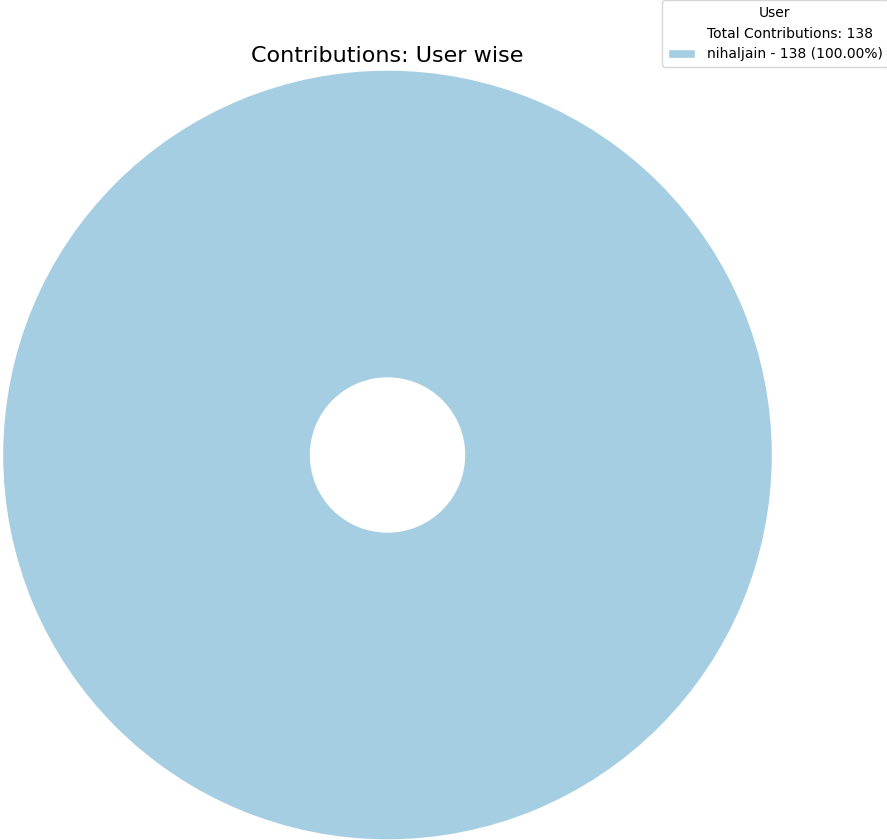
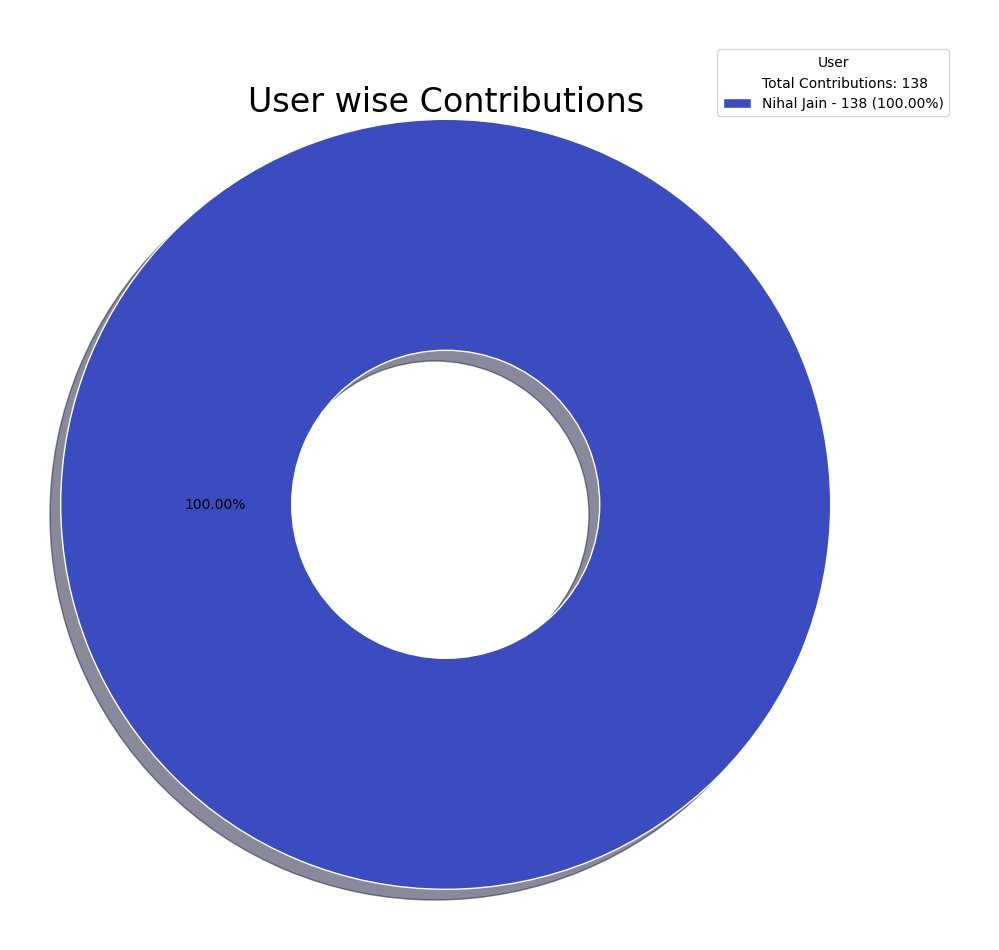
Run workflow and update to latest reports

diff --git a/output/github_contributions_report.md b/output/github_contributions_report.md
@@ -1,8 +1,8 @@
 # OpenSource Contributions Report
 
-Report auto-generated on: 2025-03-20 01:39:40
+Report auto-generated on: 2025-03-20 13:14:41
 
-## Summary
+## Overall Summary
 
 | Metric | Value |
 |--------|-------|
@@ -13,38 +13,39 @@ Report auto-generated on: 2025-03-20 01:39:40
 | Number of pull requests (Open) | 10 |
 
 <div style="display: flex; justify-content: space-around;">
-  <img src="project_wise_contribution.png" alt="Contributions: Project Wise" style="width:40%;">
-  <img src="user_wise_contribution.png" alt="Contributions: User Wise" style="width:40%;">
+  <img src="project_wise_contribution.png" alt="Project wise Contributions" style="width:45%;">
+  <img src="user_wise_contribution.png" alt="User wise Contributions" style="width:45%;">
 </div>
 
 ## Summary of Contributions by each project
 
-| Project Name | Commits | Pull Requests (Open) | Overall Contribution |
-|--------------|---------|----------------------|----------------------|
-| Apache HBase | 101 | 8 | 109 |
-| Apache Phoenix | 21 | 2 | 23 |
-| Apache Pinot | 3 | 0 | 3 |
-| Apache Zookeeper | 2 | 0 | 2 |
-| Apache Hadoop | 1 | 0 | 1 |
+| Project Key | Repositories | Users | Commits | Pull Requests (Open) | Overall Contribution |
+|--------------|--------------|-------|---------|----------------------|----------------------|
+| Apache HBase | <img src='https://avatars.githubusercontent.com/u/47359?v=4' width='12' height='12'> [apache/hbase](https://github.com/apache/hbase)<br><img src='https://avatars.githubusercontent.com/u/47359?v=4' width='12' height='12'> [apache/hbase-connectors](https://github.com/apache/hbase-connectors)<br><img src='https://avatars.githubusercontent.com/u/47359?v=4' width='12' height='12'> [apache/hbase-operator-tools](https://github.com/apache/hbase-operator-tools)<br><img src='https://avatars.githubusercontent.com/u/47359?v=4' width='12' height='12'> [apache/hbase-thirdparty](https://github.com/apache/hbase-thirdparty) | <img src='https://avatars.githubusercontent.com/u/3429351?v=4' width='12' height='12'> [Nihal Jain](https://github.com/NihalJain) | 101 | 8 | 109 |
+| Apache Phoenix | <img src='https://avatars.githubusercontent.com/u/47359?v=4' width='12' height='12'> [apache/phoenix](https://github.com/apache/phoenix)<br><img src='https://avatars.githubusercontent.com/u/47359?v=4' width='12' height='12'> [apache/phoenix-omid](https://github.com/apache/phoenix-omid)<br><img src='https://avatars.githubusercontent.com/u/47359?v=4' width='12' height='12'> [apache/phoenix-queryserver](https://github.com/apache/phoenix-queryserver)<br><img src='https://avatars.githubusercontent.com/u/47359?v=4' width='12' height='12'> [apache/phoenix-thirdparty](https://github.com/apache/phoenix-thirdparty) | <img src='https://avatars.githubusercontent.com/u/3429351?v=4' width='12' height='12'> [Nihal Jain](https://github.com/NihalJain) | 21 | 2 | 23 |
+| Apache Pinot | <img src='https://avatars.githubusercontent.com/u/47359?v=4' width='12' height='12'> [apache/pinot](https://github.com/apache/pinot)<br><img src='https://avatars.githubusercontent.com/u/62676312?v=4' width='12' height='12'> [pinot-contrib/pinot-docs](https://github.com/pinot-contrib/pinot-docs) | <img src='https://avatars.githubusercontent.com/u/3429351?v=4' width='12' height='12'> [Nihal Jain](https://github.com/NihalJain) | 3 | 0 | 3 |
+| Apache Zookeeper | <img src='https://avatars.githubusercontent.com/u/47359?v=4' width='12' height='12'> [apache/zookeeper](https://github.com/apache/zookeeper) | <img src='https://avatars.githubusercontent.com/u/3429351?v=4' width='12' height='12'> [Nihal Jain](https://github.com/NihalJain) | 2 | 0 | 2 |
+| Apache Hadoop | <img src='https://avatars.githubusercontent.com/u/47359?v=4' width='12' height='12'> [apache/hadoop](https://github.com/apache/hadoop) | <img src='https://avatars.githubusercontent.com/u/3429351?v=4' width='12' height='12'> [Nihal Jain](https://github.com/NihalJain) | 1 | 0 | 1 |
+
 ## Summary of Contributions by each user
 
-| User | Commits | Pull Requests (Open) | Overall Contribution |
-|------|---------|----------------------|----------------------|
-| nihaljain | 128 | 10 | 138 |
+| User | Repositories | Commits | Pull Requests (Open) | Overall Contribution |
+|------|--------------|---------|----------------------|----------------------|
+| <img src='https://avatars.githubusercontent.com/u/3429351?v=4' width='12' height='12'> [Nihal Jain](https://github.com/NihalJain) | <img src='https://avatars.githubusercontent.com/u/47359?v=4' width='12' height='12'> [apache/hadoop](https://github.com/apache/hadoop)<br><img src='https://avatars.githubusercontent.com/u/47359?v=4' width='12' height='12'> [apache/hbase](https://github.com/apache/hbase)<br><img src='https://avatars.githubusercontent.com/u/47359?v=4' width='12' height='12'> [apache/hbase-connectors](https://github.com/apache/hbase-connectors)<br><img src='https://avatars.githubusercontent.com/u/47359?v=4' width='12' height='12'> [apache/hbase-operator-tools](https://github.com/apache/hbase-operator-tools)<br><img src='https://avatars.githubusercontent.com/u/47359?v=4' width='12' height='12'> [apache/hbase-thirdparty](https://github.com/apache/hbase-thirdparty)<br><img src='https://avatars.githubusercontent.com/u/47359?v=4' width='12' height='12'> [apache/phoenix](https://github.com/apache/phoenix)<br><img src='https://avatars.githubusercontent.com/u/47359?v=4' width='12' height='12'> [apache/phoenix-omid](https://github.com/apache/phoenix-omid)<br><img src='https://avatars.githubusercontent.com/u/47359?v=4' width='12' height='12'> [apache/phoenix-queryserver](https://github.com/apache/phoenix-queryserver)<br><img src='https://avatars.githubusercontent.com/u/47359?v=4' width='12' height='12'> [apache/phoenix-thirdparty](https://github.com/apache/phoenix-thirdparty)<br><img src='https://avatars.githubusercontent.com/u/47359?v=4' width='12' height='12'> [apache/pinot](https://github.com/apache/pinot)<br><img src='https://avatars.githubusercontent.com/u/47359?v=4' width='12' height='12'> [apache/zookeeper](https://github.com/apache/zookeeper)<br><img src='https://avatars.githubusercontent.com/u/62676312?v=4' width='12' height='12'> [pinot-contrib/pinot-docs](https://github.com/pinot-contrib/pinot-docs) | 128 | 10 | 138 |
 
 ## Detailed Contributions
 
-| Project Name | Repository | User | Commits | Pull Requests (Open) | Overall Contribution |
+| Project Key | Repository | User | Commits | Pull Requests (Open) | Overall Contribution |
 |--------------|------------|------|---------|----------------------|----------------------|
-| Apache HBase | apache/hbase | nihaljain | 76 | 5 | 81 |
-| Apache HBase | apache/hbase-operator-tools | nihaljain | 13 | 0 | 13 |
-| Apache Phoenix | apache/phoenix-omid | nihaljain | 10 | 0 | 10 |
-| Apache HBase | apache/hbase-connectors | nihaljain | 7 | 1 | 8 |
-| Apache HBase | apache/hbase-thirdparty | nihaljain | 5 | 2 | 7 |
-| Apache Phoenix | apache/phoenix | nihaljain | 5 | 2 | 7 |
-| Apache Phoenix | apache/phoenix-queryserver | nihaljain | 5 | 0 | 5 |
-| Apache Pinot | pinot-contrib/pinot-docs | nihaljain | 2 | 0 | 2 |
-| Apache Zookeeper | apache/zookeeper | nihaljain | 2 | 0 | 2 |
-| Apache Hadoop | apache/hadoop | nihaljain | 1 | 0 | 1 |
-| Apache Phoenix | apache/phoenix-thirdparty | nihaljain | 1 | 0 | 1 |
-| Apache Pinot | apache/pinot | nihaljain | 1 | 0 | 1 |
+| Apache HBase | <img src='https://avatars.githubusercontent.com/u/47359?v=4' width='12' height='12'> [apache/hbase](https://github.com/apache/hbase) | <img src='https://avatars.githubusercontent.com/u/3429351?v=4' width='12' height='12'> [Nihal Jain](https://github.com/NihalJain) | 76 | 5 | 81 |
+| Apache HBase | <img src='https://avatars.githubusercontent.com/u/47359?v=4' width='12' height='12'> [apache/hbase-connectors](https://github.com/apache/hbase-connectors) | <img src='https://avatars.githubusercontent.com/u/3429351?v=4' width='12' height='12'> [Nihal Jain](https://github.com/NihalJain) | 7 | 1 | 8 |
+| Apache HBase | <img src='https://avatars.githubusercontent.com/u/47359?v=4' width='12' height='12'> [apache/hbase-thirdparty](https://github.com/apache/hbase-thirdparty) | <img src='https://avatars.githubusercontent.com/u/3429351?v=4' width='12' height='12'> [Nihal Jain](https://github.com/NihalJain) | 5 | 2 | 7 |
+| Apache HBase | <img src='https://avatars.githubusercontent.com/u/47359?v=4' width='12' height='12'> [apache/hbase-operator-tools](https://github.com/apache/hbase-operator-tools) | <img src='https://avatars.githubusercontent.com/u/3429351?v=4' width='12' height='12'> [Nihal Jain](https://github.com/NihalJain) | 13 | 0 | 13 |
+| Apache Hadoop | <img src='https://avatars.githubusercontent.com/u/47359?v=4' width='12' height='12'> [apache/hadoop](https://github.com/apache/hadoop) | <img src='https://avatars.githubusercontent.com/u/3429351?v=4' width='12' height='12'> [Nihal Jain](https://github.com/NihalJain) | 1 | 0 | 1 |
+| Apache Phoenix | <img src='https://avatars.githubusercontent.com/u/47359?v=4' width='12' height='12'> [apache/phoenix](https://github.com/apache/phoenix) | <img src='https://avatars.githubusercontent.com/u/3429351?v=4' width='12' height='12'> [Nihal Jain](https://github.com/NihalJain) | 5 | 2 | 7 |
+| Apache Phoenix | <img src='https://avatars.githubusercontent.com/u/47359?v=4' width='12' height='12'> [apache/phoenix-omid](https://github.com/apache/phoenix-omid) | <img src='https://avatars.githubusercontent.com/u/3429351?v=4' width='12' height='12'> [Nihal Jain](https://github.com/NihalJain) | 10 | 0 | 10 |
+| Apache Phoenix | <img src='https://avatars.githubusercontent.com/u/47359?v=4' width='12' height='12'> [apache/phoenix-queryserver](https://github.com/apache/phoenix-queryserver) | <img src='https://avatars.githubusercontent.com/u/3429351?v=4' width='12' height='12'> [Nihal Jain](https://github.com/NihalJain) | 5 | 0 | 5 |
+| Apache Phoenix | <img src='https://avatars.githubusercontent.com/u/47359?v=4' width='12' height='12'> [apache/phoenix-thirdparty](https://github.com/apache/phoenix-thirdparty) | <img src='https://avatars.githubusercontent.com/u/3429351?v=4' width='12' height='12'> [Nihal Jain](https://github.com/NihalJain) | 1 | 0 | 1 |
+| Apache Pinot | <img src='https://avatars.githubusercontent.com/u/62676312?v=4' width='12' height='12'> [pinot-contrib/pinot-docs](https://github.com/pinot-contrib/pinot-docs) | <img src='https://avatars.githubusercontent.com/u/3429351?v=4' width='12' height='12'> [Nihal Jain](https://github.com/NihalJain) | 2 | 0 | 2 |
+| Apache Pinot | <img src='https://avatars.githubusercontent.com/u/47359?v=4' width='12' height='12'> [apache/pinot](https://github.com/apache/pinot) | <img src='https://avatars.githubusercontent.com/u/3429351?v=4' width='12' height='12'> [Nihal Jain](https://github.com/NihalJain) | 1 | 0 | 1 |
+| Apache Zookeeper | <img src='https://avatars.githubusercontent.com/u/47359?v=4' width='12' height='12'> [apache/zookeeper](https://github.com/apache/zookeeper) | <img src='https://avatars.githubusercontent.com/u/3429351?v=4' width='12' height='12'> [Nihal Jain](https://github.com/NihalJain) | 2 | 0 | 2 |
